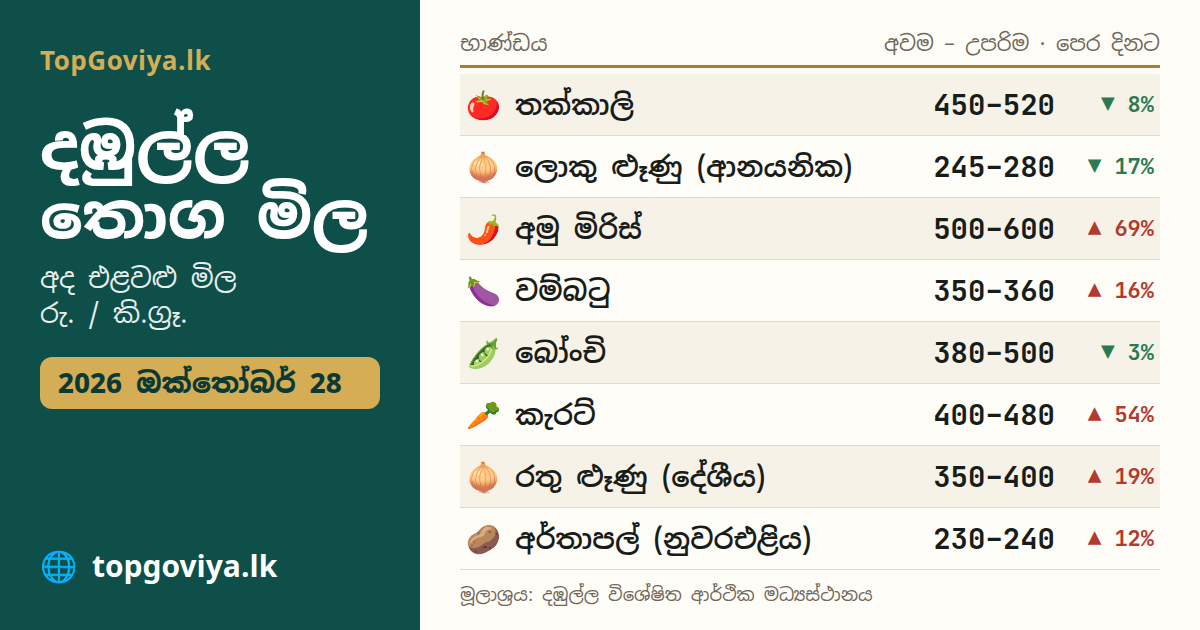
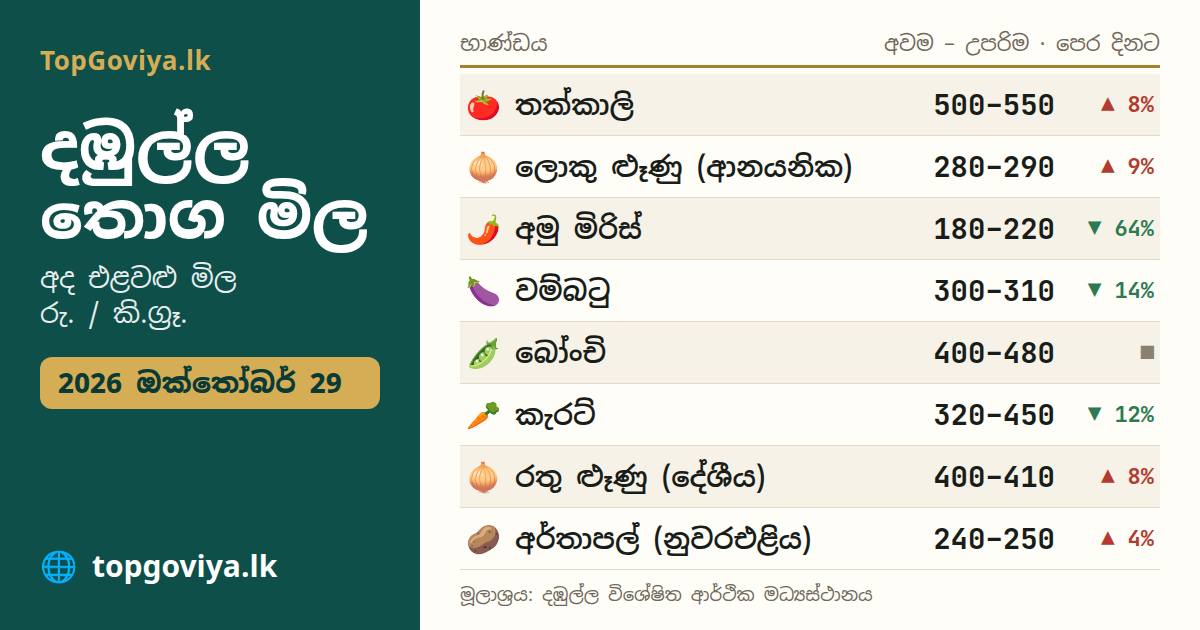
Dambulla preview image (2026-10-29)

diff --git a/dambulla-fruit-price.html b/dambulla-fruit-price.html
@@ -1,11 +1,11 @@
 <!DOCTYPE html>
 <html lang="si"><head><meta charset="UTF-8"><meta name="viewport" content="width=device-width, initial-scale=1">
-<title>දඹුල්ල පලතුරු මිල අද 2026.10.28 | Dambulla Fruit Price Today | TopGoviya</title>
-<meta name="description" content="දඹුල්ල පලතුරු මිල අද — දඹුල්ල විශේෂිත ආර්ථික මධ්යස්ථානයේ 2026 ඔක්තෝබර් 28 පලතුරු 20 ක තොග මිල (අවම–උපරිම) හා පෙර දිනට වෙනස. Dambulla fruit wholesale prices today, Sri Lanka.">
+<title>දඹුල්ල පලතුරු මිල අද 2026.10.29 | Dambulla Fruit Price Today | TopGoviya</title>
+<meta name="description" content="දඹුල්ල පලතුරු මිල අද — දඹුල්ල විශේෂිත ආර්ථික මධ්යස්ථානයේ 2026 ඔක්තෝබර් 29 පලතුරු 20 ක තොග මිල (අවම–උපරිම) හා පෙර දිනට වෙනස. Dambulla fruit wholesale prices today, Sri Lanka.">
 <link rel="canonical" href="https://topgoviya.lk/dambulla-fruit-price.html">
-<meta property="og:title" content="දඹුල්ල පලතුරු මිල අද 2026.10.28 | Dambulla Fruit Price Today | TopGoviya"><meta property="og:description" content="දඹුල්ල පලතුරු මිල අද — දඹුල්ල විශේෂිත ආර්ථික මධ්යස්ථානයේ 2026 ඔක්තෝබර් 28 පලතුරු 20 ක තොග මිල (අවම–උපරිම) හා පෙර දිනට වෙනස. Dambulla fruit wholesale prices today, Sri Lanka.">
+<meta property="og:title" content="දඹුල්ල පලතුරු මිල අද 2026.10.29 | Dambulla Fruit Price Today | TopGoviya"><meta property="og:description" content="දඹුල්ල පලතුරු මිල අද — දඹුල්ල විශේෂිත ආර්ථික මධ්යස්ථානයේ 2026 ඔක්තෝබර් 29 පලතුරු 20 ක තොග මිල (අවම–උපරිම) හා පෙර දිනට වෙනස. Dambulla fruit wholesale prices today, Sri Lanka.">
 <meta property="og:url" content="https://topgoviya.lk/dambulla-fruit-price.html"><meta property="og:type" content="website">
-<meta property="og:image" content="https://topgoviya.lk/share/dambulla-wide.png?v=2026-10-28">
+<meta property="og:image" content="https://topgoviya.lk/share/dambulla-wide.png?v=2026-10-29">
 <link rel="icon" href="icon-192x192.png"><meta name="theme-color" content="#0e4f4a">
 <script async src="https://www.googletagmanager.com/gtag/js?id=G-ZBN8Z32S4J"></script>
 <script>window.dataLayer=window.dataLayer||[];function gtag(){dataLayer.push(arguments);}gtag('js',new Date());gtag('config','G-ZBN8Z32S4J');</script>
@@ -27,12 +27,12 @@ td small{color:#6f675a}.n{text-align:right;font-family:'JetBrains Mono',monospac
 <main class="w">
 <h1>🍍 දඹුල්ල පලතුරු මිල අද</h1>
 <p class="sub">Dambulla fruit price today · දඹුල්ල පලතුරු මිල today · දඹුල්ලේ පලතුරු තොග මිල ගණන් · අන්නාසි, පැපොල්, කෙසෙල්, අඹ, දොඩම් මිල</p>
-<span class="pill">නවතම මිල: <b>2026 ඔක්තෝබර් 28</b></span><span class="pill">20 භාණ්ඩ</span>
-<p>දඹුල්ල විශේෂිත ආර්ථික මධ්යස්ථානයේ 2026 ඔක්තෝබර් 28 දින පලතුරු තොග මිල (රු. / කි.ග්රෑ.; පොල් හා තැඹිලි ගෙඩියට). සාමාන්ය = (අවම + උපරිම) ÷ 2. වෙනස පෙර වාර්තාවට (2026 ඔක්තෝබර් 26) සාපේක්ෂව.</p>
-<div class="sum">📈 වැඩිම ඉහළ යාම: <b>තැඹිලි</b> රු. 120–160 → <b>රු. 180–185</b> (+30%)<br>📉 වැඩිම පහළ යාම: <b>වෙනත් අඹ</b> රු. 80–150 → <b>රු. 50–70</b> (-48%)<br>■ වෙනසක් නැති පලතුරු: 1</div>
-<p class="src">මූලාශ්රය: දඹුල්ල විශේෂිත ආර්ථික මධ්යස්ථානය · වාර්තා දිනය: 2026 ඔක්තෝබර් 28 · ඒකකය: රු. / කි.ග්රෑ. (පොල්, තැඹිලි: ගෙඩියට) · තොග මිල; ප්රභේදය, ශ්රේණිය හා ප්රමාණය අනුව සැබෑ මිල වෙනස් විය හැක.</p>
-<div style="overflow-x:auto"><table><thead><tr><th>භාණ්ඩය</th><th class="n">අවම – උපරිම</th><th class="n">සාමාන්ය</th><th class="n">පෙර වාර්තාවට<br><small>(2026 ඔක්තෝබර් 26)</small></th></tr></thead>
-<tbody><tr><td><a href="price/coconut-avg.html">පොල්</a> <small>Coconut</small></td><td class="n">130 – 135 <small>/ ගෙඩිය</small></td><td class="n">132</td><td class="n"><span class="dn">▼ -9%</span></td></tr><tr><td>තැඹිලි <small>King coconut</small></td><td class="n">180 – 185 <small>/ ගෙඩිය</small></td><td class="n">182</td><td class="n"><span class="up">▲ +30%</span></td></tr><tr><td>සීනි කෙසෙල් <small>Banana (Seeni)</small></td><td class="n">130 – 140</td><td class="n">135</td><td class="n"><span class="up">▲ +23%</span></td></tr><tr><td><a href="price/papaw.html">පැපොල්</a> <small>Papaya</small></td><td class="n">40 – 50</td><td class="n">45</td><td class="n"><span class="dn">▼ -40%</span></td></tr><tr><td><a href="price/banana-sour.html">ඇඹුල් කෙසෙල්</a> <small>Banana (Ambul)</small></td><td class="n">140 – 150</td><td class="n">145</td><td class="n"><span class="up">▲ +21%</span></td></tr><tr><td>කොමඩු <small>Watermelon</small></td><td class="n">100 – 110</td><td class="n">105</td><td class="n"><span class="dn">▼ -22%</span></td></tr><tr><td><a href="price/pineapple.html">අන්නාසි</a> <small>Pineapple</small></td><td class="n">190 – 200</td><td class="n">195</td><td class="n"><span class="up">▲ +5%</span></td></tr><tr><td>පේර <small>Guava</small></td><td class="n">400 – 450</td><td class="n">425</td><td class="n"><span class="dn">▼ -6%</span></td></tr><tr><td>කොලිකුට්ටු <small>Banana (Kolikuttu)</small></td><td class="n">390 – 400</td><td class="n">395</td><td class="n"><span class="up">▲ +8%</span></td></tr><tr><td>ආඹුන් කෙසෙල් <small>Banana (Ambun)</small></td><td class="n">170 – 180</td><td class="n">175</td><td class="n"><span class="dn">▼ -15%</span></td></tr><tr><td>මාළු අඹ <small>Mango (Malu)</small></td><td class="n">50 – 60</td><td class="n">55</td><td class="n"><span class="fl">■ +0%</span></td></tr><tr><td>වෙනත් අඹ <small>Mango (other)</small></td><td class="n">50 – 70</td><td class="n">60</td><td class="n"><span class="dn">▼ -48%</span></td></tr><tr><td>කර්තකොළඹ අඹ <small>Mango (Karthakolomban)</small></td><td class="n">120 – 130</td><td class="n">125</td><td class="n"><span class="dn">▼ -40%</span></td></tr><tr><td>අලිගැට පේර <small>Avocado</small></td><td class="n">240 – 250</td><td class="n">245</td><td class="n"><span class="dn">▼ -21%</span></td></tr><tr><td>TJC අඹ <small>Mango (TJC)</small></td><td class="n">400 – 430</td><td class="n">415</td><td class="n"><span class="dn">▼ -25%</span></td></tr><tr><td>රතඹලා කෙසෙල් <small>Red banana (Rathambala)</small></td><td class="n">290 – 300</td><td class="n">295</td><td class="n"><span class="dn">▼ -21%</span></td></tr><tr><td>පැෂන් ෆෲට් <small>Passion fruit</small></td><td class="n">290 – 300</td><td class="n">295</td><td class="n"><span class="dn">▼ -3%</span></td></tr><tr><td>දිවුල් <small>Wood apple</small></td><td class="n">80 – 90</td><td class="n">85</td><td class="n"><span class="dn">▼ -15%</span></td></tr><tr><td>කටු අනෝදා <small>Soursop</small></td><td class="n">390 – 400</td><td class="n">395</td><td class="n"><span class="up">▲ +11%</span></td></tr><tr><td>බෙහෙත් නෙල්ලි <small>Gooseberry (nelli)</small></td><td class="n">490 – 500</td><td class="n">495</td><td class="n"><span class="dn">▼ -14%</span></td></tr></tbody></table></div>
+<span class="pill">නවතම මිල: <b>2026 ඔක්තෝබර් 29</b></span><span class="pill">20 භාණ්ඩ</span>
+<p>දඹුල්ල විශේෂිත ආර්ථික මධ්යස්ථානයේ 2026 ඔක්තෝබර් 29 දින පලතුරු තොග මිල (රු. / කි.ග්රෑ.; පොල් හා තැඹිලි ගෙඩියට). සාමාන්ය = (අවම + උපරිම) ÷ 2. වෙනස පෙර වාර්තාවට (2026 ඔක්තෝබර් 28) සාපේක්ෂව.</p>
+<div class="sum">📈 වැඩිම ඉහළ යාම: <b>කර්තකොළඹ අඹ</b> රු. 120–130 → <b>රු. 250–300</b> (+120%)<br>📉 වැඩිම පහළ යාම: <b>තැඹිලි</b> රු. 180–185 → <b>රු. 140–150</b> (-21%)<br>■ වෙනසක් නැති පලතුරු: 0</div>
+<p class="src">මූලාශ්රය: දඹුල්ල විශේෂිත ආර්ථික මධ්යස්ථානය · වාර්තා දිනය: 2026 ඔක්තෝබර් 29 · ඒකකය: රු. / කි.ග්රෑ. (පොල්, තැඹිලි: ගෙඩියට) · තොග මිල; ප්රභේදය, ශ්රේණිය හා ප්රමාණය අනුව සැබෑ මිල වෙනස් විය හැක.</p>
+<div style="overflow-x:auto"><table><thead><tr><th>භාණ්ඩය</th><th class="n">අවම – උපරිම</th><th class="n">සාමාන්ය</th><th class="n">පෙර වාර්තාවට<br><small>(2026 ඔක්තෝබර් 28)</small></th></tr></thead>
+<tbody><tr><td><a href="price/coconut-avg.html">පොල්</a> <small>Coconut</small></td><td class="n">140 – 145 <small>/ ගෙඩිය</small></td><td class="n">142</td><td class="n"><span class="up">▲ +8%</span></td></tr><tr><td>තැඹිලි <small>King coconut</small></td><td class="n">140 – 150 <small>/ ගෙඩිය</small></td><td class="n">145</td><td class="n"><span class="dn">▼ -21%</span></td></tr><tr><td>සීනි කෙසෙල් <small>Banana (Seeni)</small></td><td class="n">120 – 130</td><td class="n">125</td><td class="n"><span class="dn">▼ -7%</span></td></tr><tr><td><a href="price/papaw.html">පැපොල්</a> <small>Papaya</small></td><td class="n">50 – 60</td><td class="n">55</td><td class="n"><span class="up">▲ +22%</span></td></tr><tr><td><a href="price/banana-sour.html">ඇඹුල් කෙසෙල්</a> <small>Banana (Ambul)</small></td><td class="n">130 – 140</td><td class="n">135</td><td class="n"><span class="dn">▼ -7%</span></td></tr><tr><td>කොමඩු <small>Watermelon</small></td><td class="n">100 – 120</td><td class="n">110</td><td class="n"><span class="up">▲ +5%</span></td></tr><tr><td><a href="price/pineapple.html">අන්නාසි</a> <small>Pineapple</small></td><td class="n">200 – 220</td><td class="n">210</td><td class="n"><span class="up">▲ +8%</span></td></tr><tr><td>පේර <small>Guava</small></td><td class="n">400 – 420</td><td class="n">410</td><td class="n"><span class="dn">▼ -4%</span></td></tr><tr><td>කොලිකුට්ටු <small>Banana (Kolikuttu)</small></td><td class="n">380 – 400</td><td class="n">390</td><td class="n"><span class="dn">▼ -1%</span></td></tr><tr><td>ආඹුන් කෙසෙල් <small>Banana (Ambun)</small></td><td class="n">260 – 270</td><td class="n">265</td><td class="n"><span class="up">▲ +51%</span></td></tr><tr><td>මාළු අඹ <small>Mango (Malu)</small></td><td class="n">60 – 70</td><td class="n">65</td><td class="n"><span class="up">▲ +18%</span></td></tr><tr><td>වෙනත් අඹ <small>Mango (other)</small></td><td class="n">100 – 150</td><td class="n">125</td><td class="n"><span class="up">▲ +108%</span></td></tr><tr><td>කර්තකොළඹ අඹ <small>Mango (Karthakolomban)</small></td><td class="n">250 – 300</td><td class="n">275</td><td class="n"><span class="up">▲ +120%</span></td></tr><tr><td>අලිගැට පේර <small>Avocado</small></td><td class="n">225 – 300</td><td class="n">262</td><td class="n"><span class="up">▲ +7%</span></td></tr><tr><td>TJC අඹ <small>Mango (TJC)</small></td><td class="n">550 – 600</td><td class="n">575</td><td class="n"><span class="up">▲ +39%</span></td></tr><tr><td>රතඹලා කෙසෙල් <small>Red banana (Rathambala)</small></td><td class="n">350 – 380</td><td class="n">365</td><td class="n"><span class="up">▲ +24%</span></td></tr><tr><td>පැෂන් ෆෲට් <small>Passion fruit</small></td><td class="n">300 – 320</td><td class="n">310</td><td class="n"><span class="up">▲ +5%</span></td></tr><tr><td>දිවුල් <small>Wood apple</small></td><td class="n">80 – 100</td><td class="n">90</td><td class="n"><span class="up">▲ +6%</span></td></tr><tr><td>බෙලි <small>Bael fruit</small></td><td class="n">250 – 300</td><td class="n">275</td><td class="n">—</td></tr><tr><td>බෙහෙත් නෙල්ලි <small>Gooseberry (nelli)</small></td><td class="n">500 – 550</td><td class="n">525</td><td class="n"><span class="up">▲ +6%</span></td></tr></tbody></table></div>
 <a class="cta" href="./">🥬 සියලු භාණ්ඩ 90+ ක අද මිල, ප්රස්ථාර හා ලාභ ගණකය →</a>
 <h2>නිතර අසන ප්රශ්න</h2>
 <p><b>මේවා සිල්ලර මිලද?</b> නැත — දඹුල්ල වෙළඳපොළේ තොග මිල (අවම – උපරිම). කඩවල සිල්ලර මිල ප්රවාහන හා වෙනත් වියදම් නිසා වැඩි විය හැක. සිල්ලර මිල සඳහා <a href="retail.html">CBSL සිල්ලර මිල</a> බලන්න.</p>
@@ -44,6 +44,4 @@ td small{color:#6f675a}.n{text-align:right;font-family:'JetBrains Mono',monospac
 <p>🥬 <a href="./">දඹුල්ල එලවලු මිල අද</a> · 📊 <a href="retail.html">CBSL සිල්ලර මිල</a> · 🧺 <a href="market/peliyagoda.html">පෑලියගොඩ මිල</a></p>
 <p class="note">මූලාශ්රය: දඹුල්ල විශේෂිත ආර්ථික මධ්යස්ථානය (Dambulla DEC) · <a href="data-sources.html">මිල ලබාගන්නා ආකාරය</a><br>
 මිල ගණන් මඟපෙන්වීමක් පමණි. ඔබේ තීරණ ඔබේ වගකීම වේ. · © TopGoviya.lk</p>
-</main><div id="tg-copy-wrap" style="text-align:center;font-size:12px;line-height:1.6;color:#7a7264;max-width:900px;margin:8px auto 76px;padding:0 16px"><span id="tg-copy">© 2026 TopGoviya.lk · සියලු හිමිකම් ඇවිරිණි / All rights reserved · මිල දත්ත: මහ බැංකුව, HARTI, DEA (නිල මූලාශ්ර) / Price data: CBSL, HARTI &amp; DEA · <a href="/contact.html">සම්බන්ධ වන්න / Contact</a> · <a href="/useful-links.html">සබැඳි / Links</a></span></div>
-<script defer src="/events.js?v=1"></script>
-</body></html>
+</main></body></html>

diff --git a/index.html b/index.html
@@ -3,21 +3,21 @@
 <head>
 <meta charset="UTF-8">
 <meta name="viewport" content="width=device-width, initial-scale=1, viewport-fit=cover">
-<title>දඹුල්ල එලවලු මිල අද 2026.10.28 | Dambulla Market Price Today | TopGoviya</title>
+<title>දඹුල්ල එලවලු මිල අද 2026.10.29 | Dambulla Market Price Today | TopGoviya</title>
 <meta name="description" content="දඹුල්ල එලවලු මිල අද — දඹුල්ල විශේෂිත ආර්ථික මධ්යස්ථානයේ අද එළවළු, පලතුරු, අල වර්ග හා ධාන්ය 90+ ක තොග මිල (අවම–උපරිම), පෙර වාර්තාවට වෙනස, මිල ප්රස්ථාර හා ලාභ ගණකය. Dambulla Dedicated Economic Centre wholesale vegetable prices today, Sri Lanka.">
 <meta property="og:title" content="දඹුල්ල එලවලු මිල අද | Dambulla Vegetable Price Today">
 <meta property="og:description" content="දඹුල්ල විශේෂිත ආර්ථික මධ්යස්ථානයේ අද එළවළු තොග මිල 90+ · Dambulla wholesale vegetable prices today, with daily change and charts.">
 <link rel="canonical" href="https://topgoviya.lk/">
 <meta property="og:type" content="website">
 <meta property="og:url" content="https://topgoviya.lk/">
-<meta property="og:image" content="https://topgoviya.lk/share/dambulla-wide.png?v=2026-10-28">
+<meta property="og:image" content="https://topgoviya.lk/share/dambulla-wide.png?v=2026-10-29">
 <meta property="og:image:width" content="1200">
 <meta property="og:image:height" content="630">
 <meta property="og:image:alt" content="දඹුල්ල තොග මිල — අද එළවළු මිල · TopGoviya.lk">
 <meta property="og:site_name" content="TopGoviya.lk">
 <meta property="og:locale" content="si_LK">
 <meta name="twitter:card" content="summary_large_image">
-<meta name="twitter:image" content="https://topgoviya.lk/share/dambulla-wide.png?v=2026-10-28">
+<meta name="twitter:image" content="https://topgoviya.lk/share/dambulla-wide.png?v=2026-10-29">
 <meta name="theme-color" content="#0e4f4a">
 <link rel="preconnect" href="https://fonts.googleapis.com">
 <link rel="preconnect" href="https://fonts.gstatic.com" crossorigin>
@@ -265,7 +265,7 @@ footer a{color:var(--petrol);font-weight:600}
 
 <section class="seo" aria-label="දඹුල්ල එලවලු මිල — තොරතුරු">
   <h2>අද දඹුල්ල එලවලු මිල ලැයිස්තුව</h2>
-  <!--SEO-TODAY--><p><b>දඹුල්ල එලවලු මිල අද — 2026 ඔක්තෝබර් 28</b> (දඹුල්ල විශේෂිත ආර්ථික මධ්යස්ථානය, තොග මිල, අවම–උපරිම): තක්කාලි රු. 450–520 / කි.ග්රෑ. · ලොකු ළූණු (ආනයනික) රු. 245–280 / කි.ග්රෑ. · රතු ළූණු (දේශීය) රු. 350–400 / කි.ග්රෑ. · අමු මිරිස් රු. 500–600 / කි.ග්රෑ. · අර්තාපල් (නුවරඑළිය) රු. 230–240 / කි.ග්රෑ. · වම්බටු රු. 350–360 / කි.ග්රෑ. · පොල් රු. 130–135 / ගෙඩිය · ගෝවා රු. 450–500 / කි.ග්රෑ. · කැරට් (නුවරඑළිය) රු. 400–480 / කි.ග්රෑ. · බෝංචි රු. 380–500 / කි.ග්රෑ. · වට්ටක්කා (මැලේසියන්) රු. 240–260 / කි.ග්රෑ. · පිපිඤ්ඤා රු. 50–60 / කි.ග්රෑ. · බණ්ඩක්කා රු. 150–160 / කි.ග්රෑ. · දෙහි රු. 1,400–1,500 / කි.ග්රෑ. · කරපිංචා රු. 90–100 / කි.ග්රෑ. · තැඹිලි රු. 180–185 / ගෙඩිය · සීනි කෙසෙල් රු. 130–140 / කි.ග්රෑ. · පැපොල් රු. 40–50 / කි.ග්රෑ. · ලීක්ස් රු. 280–320 / කි.ග්රෑ. · කැකිරි රු. 130–140 / කි.ග්රෑ. · ලොකු ළූණු (දේශීය) රු. 250–280 / කි.ග්රෑ. · රතු ළූණු (ආනයනික) රු. 480–500 / කි.ග්රෑ. · පතෝල රු. 280–300 / කි.ග්රෑ. · මුරුංගා රු. 220–230 / කි.ග්රෑ. · කරවිල රු. 450–500 / කි.ග්රෑ. · අළු කෙසෙල් රු. 140–170 / කි.ග්රෑ. · මාළු මිරිස් රු. 550–560 / කි.ග්රෑ. · රාබු රු. 100–110 / කි.ග්රෑ. · අර්තාපල් (ආනයනික) රු. 160–190 / කි.ග්රෑ. · ඇඹුල් කෙසෙල් රු. 140–150 / කි.ග්රෑ. — භාණ්ඩ 81 ක සම්පූර්ණ ලැයිස්තුව ඉහත.</p><p>🍍 <a href="dambulla-fruit-price.html">දඹුල්ල පලතුරු මිල අද</a> (Dambulla fruit price today)</p><!--/SEO-TODAY-->
+  <!--SEO-TODAY--><p><b>දඹුල්ල එලවලු මිල අද — 2026 ඔක්තෝබර් 29</b> (දඹුල්ල විශේෂිත ආර්ථික මධ්යස්ථානය, තොග මිල, අවම–උපරිම): තක්කාලි රු. 500–550 / කි.ග්රෑ. · ලොකු ළූණු (ආනයනික) රු. 280–290 / කි.ග්රෑ. · රතු ළූණු (දේශීය) රු. 400–410 / කි.ග්රෑ. · අමු මිරිස් රු. 180–220 / කි.ග්රෑ. · අර්තාපල් (නුවරඑළිය) රු. 240–250 / කි.ග්රෑ. · වම්බටු රු. 300–310 / කි.ග්රෑ. · පොල් රු. 140–145 / ගෙඩිය · ගෝවා රු. 480–500 / කි.ග්රෑ. · කැරට් (නුවරඑළිය) රු. 320–450 / කි.ග්රෑ. · බෝංචි රු. 400–480 / කි.ග්රෑ. · වට්ටක්කා (මැලේසියන්) රු. 200–220 / කි.ග්රෑ. · පිපිඤ්ඤා රු. 100–120 / කි.ග්රෑ. · බණ්ඩක්කා රු. 130–150 / කි.ග්රෑ. · දෙහි රු. 1,100–1,200 / කි.ග්රෑ. · කංකුං රු. 25–30 / මිටිය · මුකුණුවැන්න රු. 25–30 / මිටිය · කරපිංචා රු. 100–120 / කි.ග්රෑ. · තැඹිලි රු. 140–150 / ගෙඩිය · සීනි කෙසෙල් රු. 120–130 / කි.ග්රෑ. · පැපොල් රු. 50–60 / කි.ග්රෑ. · ලීක්ස් රු. 210–220 / කි.ග්රෑ. · කැකිරි රු. 90–100 / කි.ග්රෑ. · ලොකු ළූණු (දේශීය) රු. 330–340 / කි.ග්රෑ. · රතු ළූණු (ආනයනික) රු. 380–390 / කි.ග්රෑ. · පතෝල රු. 200–220 / කි.ග්රෑ. · මුරුංගා රු. 130–150 / කි.ග්රෑ. · කරවිල රු. 480–500 / කි.ග්රෑ. · අළු කෙසෙල් රු. 130–150 / කි.ග්රෑ. · මාළු මිරිස් රු. 500–550 / කි.ග්රෑ. · රාබු රු. 100–110 / කි.ග්රෑ. — භාණ්ඩ 86 ක සම්පූර්ණ ලැයිස්තුව ඉහත.</p><p>🍍 <a href="dambulla-fruit-price.html">දඹුල්ල පලතුරු මිල අද</a> (Dambulla fruit price today)</p><!--/SEO-TODAY-->
   <h2>දඹුල්ල එලවලු මිල අද — TopGoviya.lk</h2>
   <p>දඹුල්ල විශේෂිත ආර්ථික මධ්යස්ථානය (Dambulla Dedicated Economic Centre) ශ්රී ලංකාවේ ප්රධාන එළවළු තොග වෙළඳපොළකි. TopGoviya.lk හි සෑම දිනකම දඹුල්ල එළවළු, පලතුරු, අල වර්ග, පලා වර්ග හා ධාන්ය 90කට වැඩි ගණනක අද තොග මිල (අවම – උපරිම), සාමාන්ය මිල, පෙර වාර්තාවට හා සතියට වෙනස, මිල ප්රස්ථාර, ගොවි හා වෙළෙන්දා ලාභ ගණකය සහ සතියේ බාස්කට් එක නොමිලේ බලන්න පුළුවන්. තක්කාලි, ලොකු ළූණු, රතු ළූණු, අමු මිරිස්, අර්තාපල්, වම්බටු, පොල්, ගෝවා, කැරට්, බෝංචි මිල අද දඹුල්ලේ කීයද කියා දැනගන්න.</p>
   <p lang="en">Dambulla vegetable price today: daily wholesale prices from the Dambulla Dedicated Economic Centre, one of Sri Lanka's main wholesale vegetable markets — tomato, onion, green chilli, potato, brinjal, coconut, cabbage, carrot, beans and 90+ more, with day-to-day change, price charts and profit calculators. Free, in Sinhala, Tamil and English.</p>
